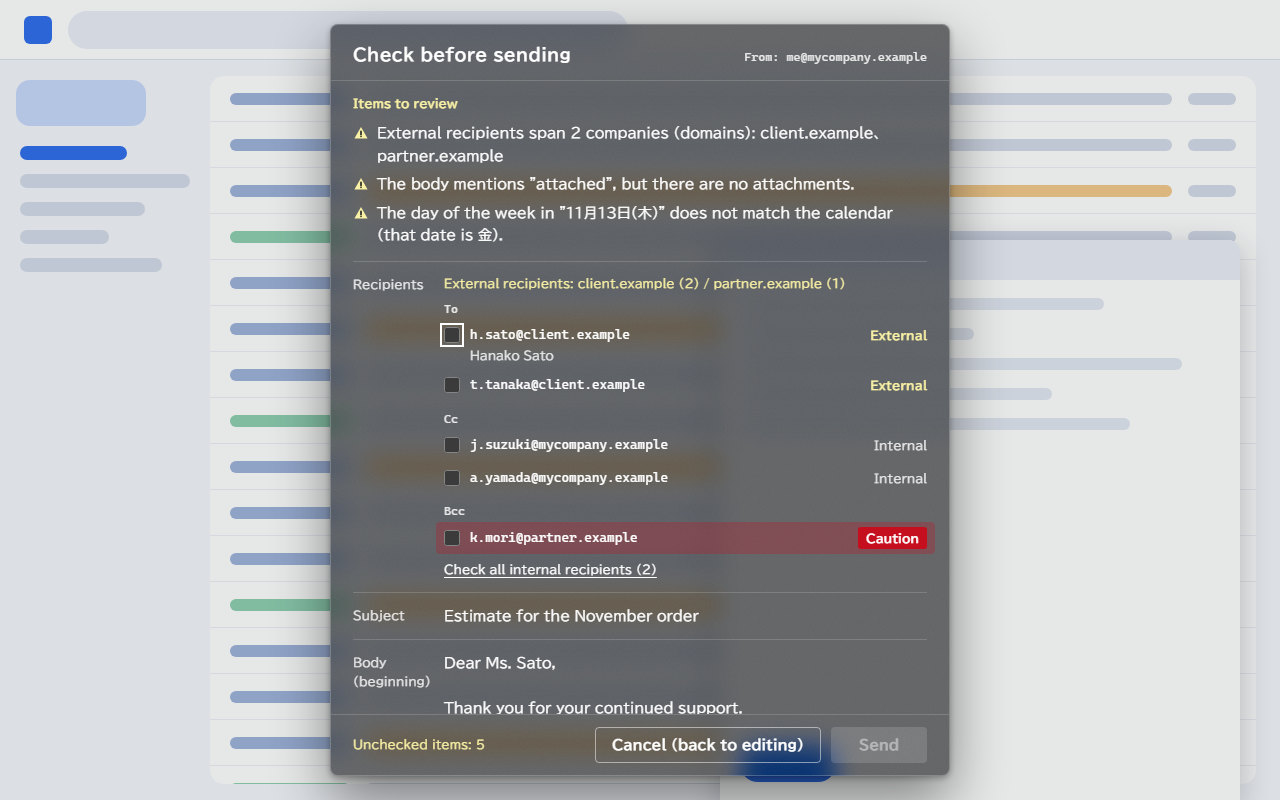
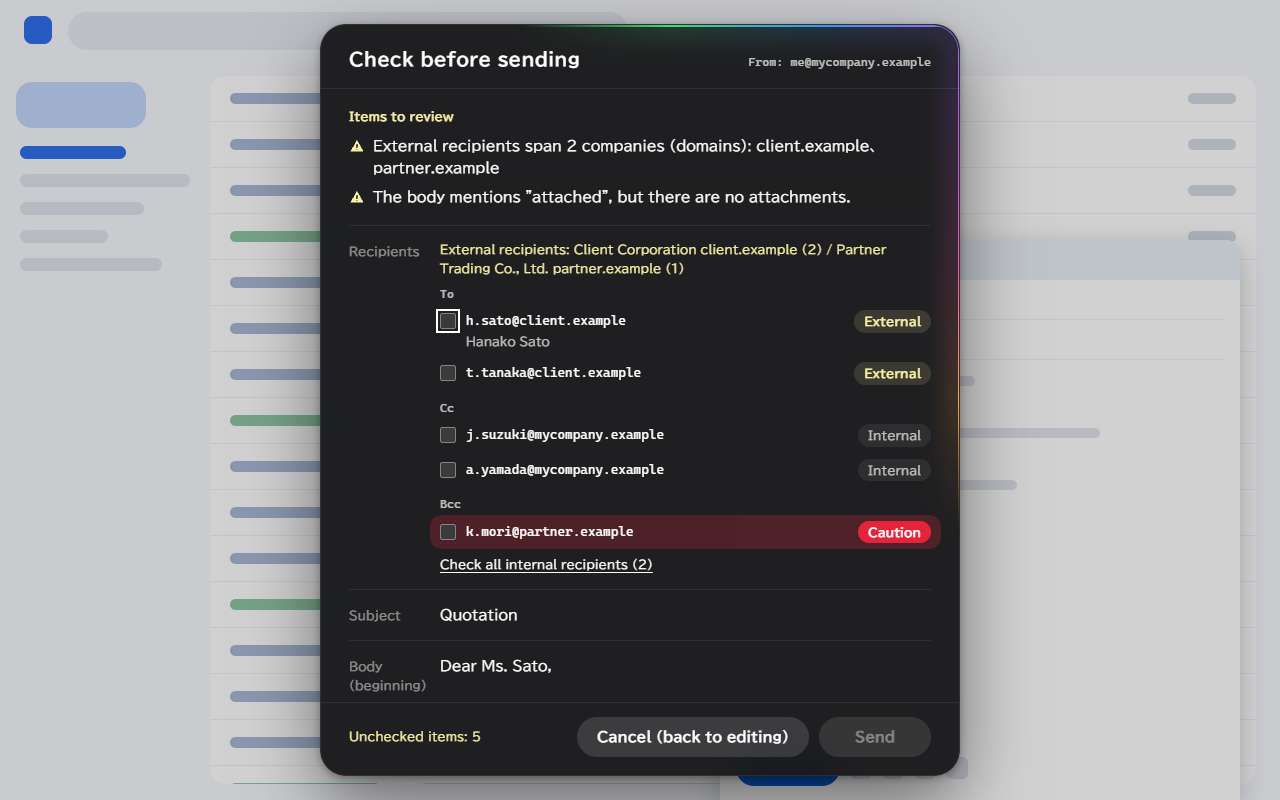
docs: retake the store screenshots with the new design
Add screenshots of the recipient search and the contact directory, and tick the finished items of the pre-submission checklist.

diff --git a/store/listing.md b/store/listing.md
@@ -197,9 +197,9 @@ GitHub Pages を有効にした後（公開元：main ブランチの `/docs`）
 
 ## 7. 提出前の確認
 
-- [ ] 名前・説明・スクリーンショットが、実際の動作と一致している
+- [x] 名前・説明・スクリーンショットが、実際の動作と一致している
 - [x] プライバシーポリシーの「下書き」の表示を外し、最終更新日と問い合わせ先を記入した
-- [ ] プライバシーポリシーの内容と、ダッシュボードの「データの使用」の申告が一致している
-- [ ] `npm run lint`・`npm run typecheck`・`npm test` が通っている
+- [x] プライバシーポリシーの内容と、ダッシュボードの「データの使用」の申告が一致している
+- [x] `npm run lint`・`npm run typecheck`・`npm test` が通っている
 - [ ] `npm run package` で作った zip を、まっさらな Chrome のプロファイルに読み込んで動作を確認した
 - [x] バージョン番号を決めた（1.0.0）
